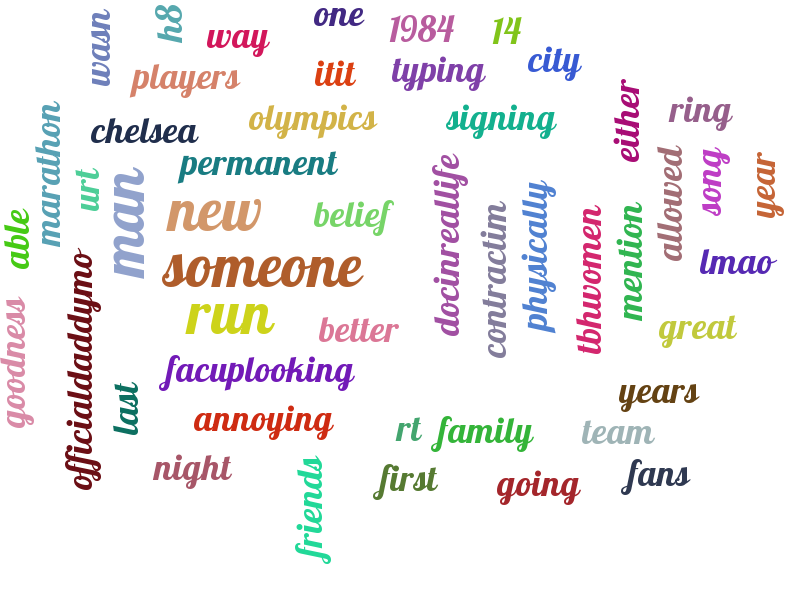
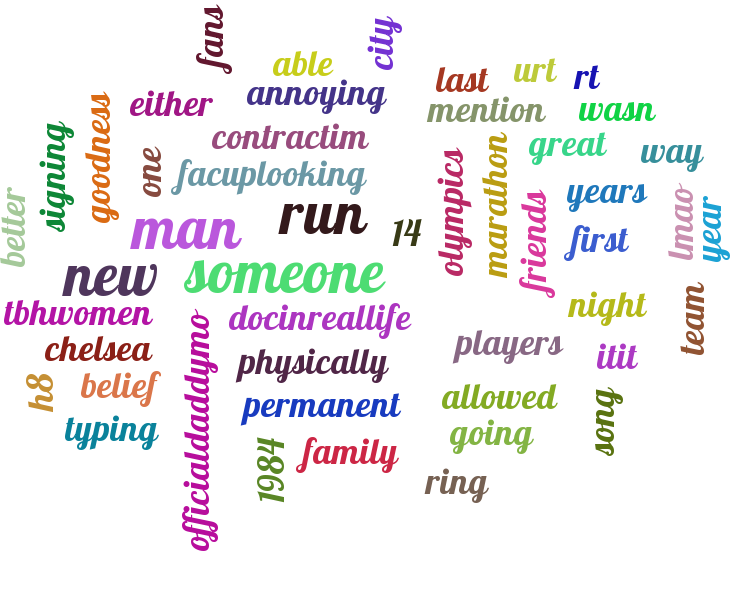
Some other small changes

diff --git a/Securities_Main/Main.py b/Securities_Main/Main.py
@@ -74,8 +74,9 @@ def cleanupContent(data):
 
 def CreateWordcloud():
     global DATA
-    tags = make_tags(DATA)
+    tags = make_tags(get_tag_counts(DATA))
     create_tag_image(tags, 'tester-image.png', size=(900, 600), fontname='Lobster')
+
 
 ##Main implementation
 
